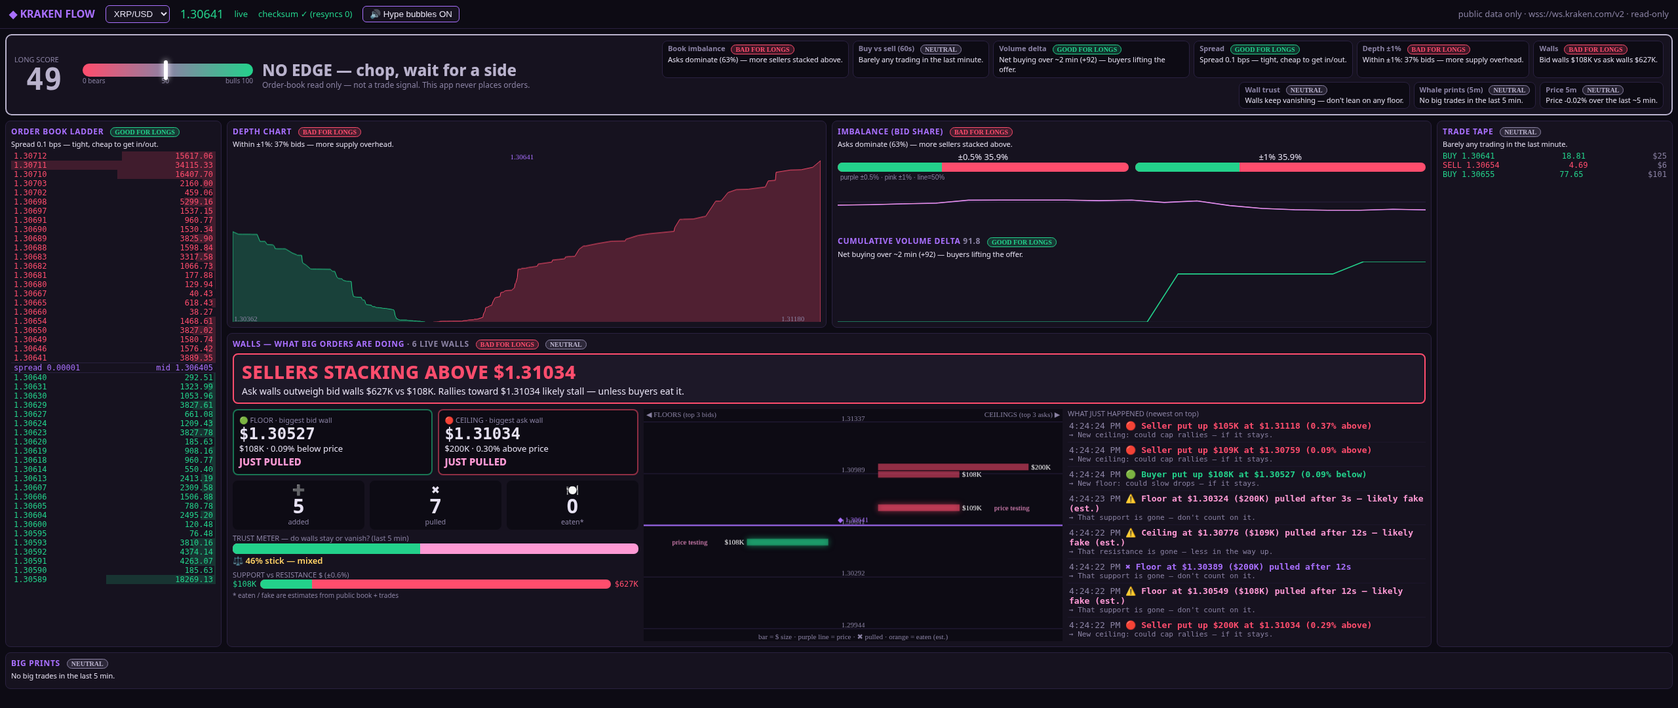
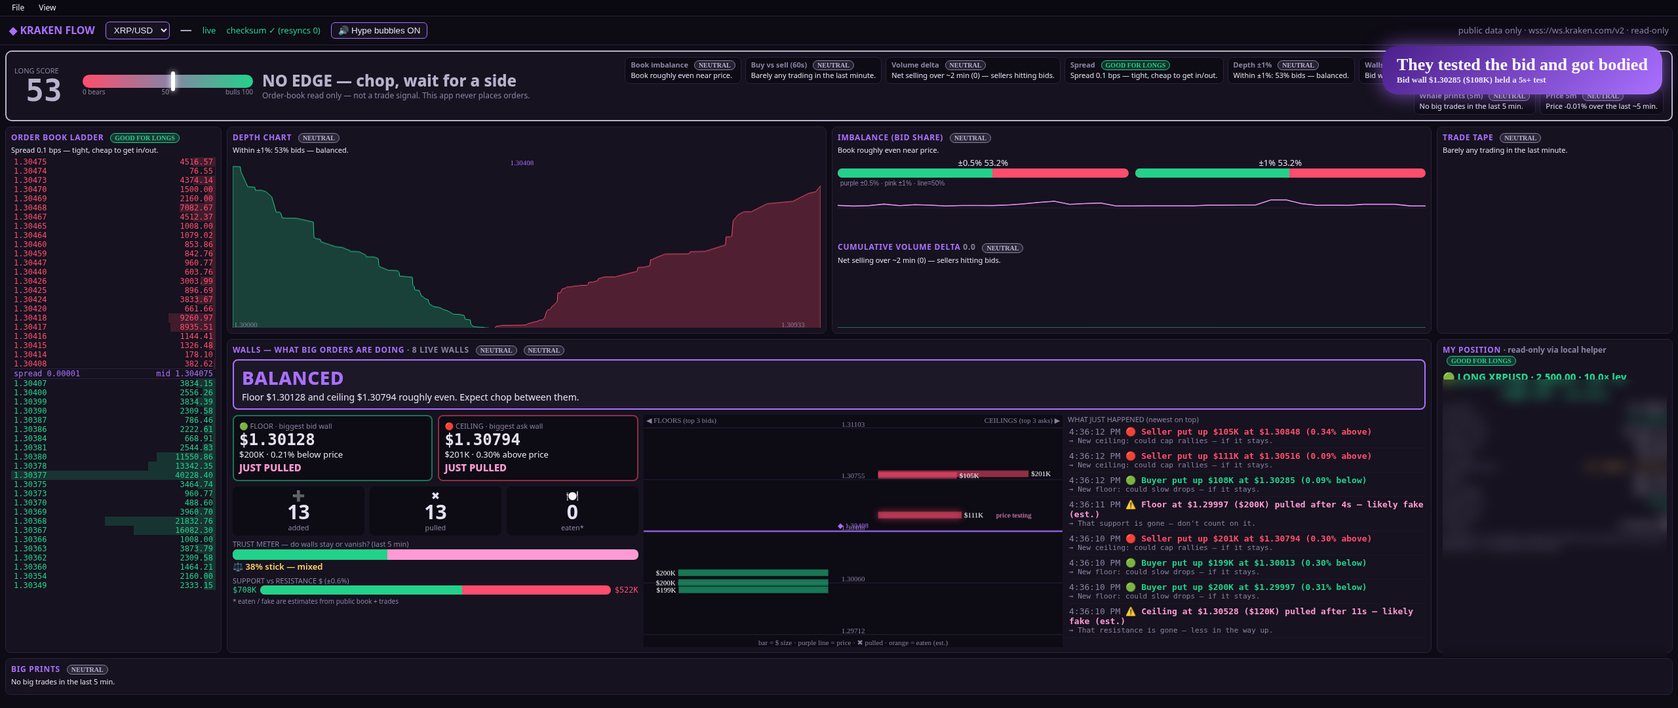
Add read-only My Position panel, local key helper, setup screen + File > Keys, fresh screenshots

diff --git a/KrakenFlow.html b/KrakenFlow.html
@@ -9,12 +9,12 @@ header b{color:var(--ac);font-size:16px}select{background:var(--pn);color:var(--
 .p{background:var(--pn);border:1px solid var(--bd);border-radius:8px;padding:8px;overflow:hidden;display:flex;flex-direction:column;min-height:0}
 .p h3{margin:0 0 6px;font-size:12px;color:var(--ac);text-transform:uppercase;letter-spacing:.06em}
 .p canvas{flex:1;width:100%;min-height:0}
-#lad{grid-area:1/1/3/2}#tape{grid-area:1/4/3/5}#walls{grid-area:2/2/3/4}#lad div.r{display:flex;justify-content:space-between;font:12px Consolas,monospace;padding:0 4px;position:relative}
+#lad{grid-area:1/1/3/2}#tape{grid-area:1/4/2/5}#walls{grid-area:2/2/3/4}#lad div.r{display:flex;justify-content:space-between;font:12px Consolas,monospace;padding:0 4px;position:relative}
 #lad .r i{position:absolute;top:0;bottom:0;right:0;opacity:.18}
 #tape .r,#big .r{font:12px Consolas,monospace;display:flex;justify-content:space-between}
 .list{overflow:auto;flex:1}.gauges{display:flex;gap:10px}.gauges>div{flex:1;text-align:center}
 .bar{height:14px;background:var(--ask);border-radius:7px;overflow:hidden}.bar i{display:block;height:100%;background:var(--bid)}
-@media(max-width:1800px){#g{grid-template-columns:260px 1fr 300px;grid-template-rows:repeat(3,48vh);height:auto}#tape{grid-row:auto}#lad{grid-area:1/1/3/2}#tape{grid-area:1/4/3/5}#walls{grid-area:2/2/3/4}}
+@media(max-width:1800px){#g{grid-template-columns:260px 1fr 300px;grid-template-rows:repeat(3,48vh);height:auto}#tape{grid-row:auto}#lad{grid-area:1/1/3/2}#tape{grid-area:1/4/2/5}#walls{grid-area:2/2/3/4}}
 @media(max-width:1100px){#g{grid-template-columns:1fr;grid-template-rows:none;grid-auto-rows:420px}#lad,#tape{grid-area:auto}}
 .wrow{display:flex;gap:8px;flex:1;min-height:0}#wmap{flex:1 1 0;width:0;min-width:0}.wside{flex:0 0 30%;display:flex;flex-direction:column;min-height:0}
 .sr{display:flex;gap:6px;align-items:center;font:12px Consolas,monospace}#wfeed .r{font:12px Consolas,monospace;padding:2px 0;border-bottom:1px solid #2a214060;animation:fl 1.2s}
@@ -49,17 +49,44 @@ body{font-size:12px}#g{grid-template-columns:210px 1fr 1fr!important;grid-templa
 #ls{flex-wrap:wrap;gap:8px}#lsn{font-size:36px;min-width:60px}#lsm{width:180px}#lsv{font-size:18px}
 #chips{flex-basis:100%;display:grid;grid-template-columns:repeat(3,minmax(0,1fr));gap:4px}.chip{max-width:none;font-size:11px;padding:3px 6px}
 .bb{font-size:20px;max-width:420px}#bigp{width:auto;max-height:20vh}}
+#pos{grid-area:2/4/3/5}#posb .kv{display:flex;justify-content:space-between;font:12px Consolas,monospace;padding:1px 0;border-bottom:1px solid #2a214055}#posb .kv span:first-child{color:var(--mu);font-family:Segoe UI}
+#posb .big{font:800 22px Consolas,monospace;text-align:center;margin:2px 0}#posb .hd{font-weight:800;font-size:15px;margin:2px 0}
+@media(max-width:1400px){#pos{grid-area:3/1/4/2!important}#walls{grid-area:2/2/4/4!important}#tape{max-height:46vh}}
+#menu{display:flex;gap:2px;background:#0a0810;border-bottom:1px solid var(--bd);padding:0 8px;font-size:12px;position:relative;z-index:50}
+.mi{position:relative}.mi>span{display:inline-block;padding:4px 10px;cursor:pointer;border-radius:4px}.mi>span:hover,.mi.open>span{background:#2a2140}
+.dd{display:none;position:absolute;top:100%;left:0;background:var(--pn);border:1px solid var(--bd);border-radius:6px;min-width:180px;padding:4px;box-shadow:0 8px 24px #000a}.mi.open .dd{display:block}
+.dd div{padding:6px 10px;border-radius:4px;cursor:pointer}.dd div:hover{background:#a970ff33}
+.ov{position:fixed;inset:0;background:#05040acc;backdrop-filter:blur(4px);display:none;align-items:center;justify-content:center;z-index:200}.ov.on{display:flex}
+.dlg{background:var(--pn);border:2px solid var(--ac);border-radius:14px;padding:22px 26px;width:min(520px,92vw);box-shadow:0 0 40px #a970ff55}
+.dlg h2{margin:0 0 4px;color:var(--ac)}.dlg label{display:block;font-size:12px;color:var(--mu);margin:10px 0 3px}
+.dlg input{width:100%;background:#0d0b14;color:var(--tx);border:1px solid var(--bd);border-radius:6px;padding:8px;font:13px Consolas,monospace}
+.dlg .btns{display:flex;gap:8px;margin-top:14px;flex-wrap:wrap}.dlg button{background:#0d0b14;color:var(--tx);border:1px solid var(--bd);border-radius:6px;padding:7px 14px;cursor:pointer}
+.dlg button.pr{background:var(--ac);border-color:var(--ac);color:#fff;font-weight:700}.note{background:#ffd16614;border:1px solid #ffd16655;border-radius:8px;padding:8px;font-size:12px;margin-top:10px}
+#kmsg{min-height:18px;margin-top:8px;font-weight:600}
 </style></head><body>
+<div id="menu"><div class="mi" id="mFile"><span>File</span><div class="dd"><div id="miKeys">🔑 Keys…</div><div id="miPos">👁 Show / hide position panel</div></div></div><div class="mi" id="mView"><span>View</span><div class="dd"><div id="miMute">🔊 Toggle hype bubbles</div></div></div></div>
 <header><b>◆ KRAKEN FLOW</b><select id="sym"><option>XRP/USD</option><option>BTC/USD</option><option>ETH/USD</option><option>SOL/USD</option></select>
 <span id="px" style="font-size:18px">—</span><span class="st" id="stat">connecting…</span><span class="st" id="ck"></span>
 <button id="mute">🔊 Hype bubbles ON</button><span class="st" style="margin-left:auto">public data only · wss://ws.kraken.com/v2 · read-only</span></header>
 <div id="ls"><div><div class="st" style="font-size:11px">LONG SCORE</div><div id="lsn">—</div></div><div><div id="lsm"><i id="lsk" style="left:50%"></i></div><div class="st" style="font-size:10px;display:flex;justify-content:space-between"><span>0 bears</span><span>50</span><span>bulls 100</span></div></div>
 <div><div id="lsv">WARMING UP…</div><div id="lss" class="st">Order-book read only — not a trade signal. This app never places orders.</div></div><div id="chips"></div></div>
-<div id="bub"></div><div id="g">
+<div id="bub"></div><div class="ov" id="ovSetup"><div class="dlg"><h2>◆ Welcome to Kraken Flow</h2><div class="st">Want to see your own position? Add a Kraken API key. The charts work without one.</div>
+<label>API key</label><input id="sKey" type="password" autocomplete="off" spellcheck="false" placeholder="paste API key">
+<label>Private key (secret)</label><input id="sSec" type="password" autocomplete="off" spellcheck="false" placeholder="paste private key">
+<div class="note">⚠ Use a <b>query-only</b> key: Query Funds, Query Open Orders &amp; Trades, Query Closed Orders &amp; Trades. <b>No</b> trade or withdraw permissions. Keys go only to the local helper on 127.0.0.1, which saves them to your <code>.env</code> file. They never leave your machine.</div>
+<div id="sMsg" style="min-height:18px;margin-top:8px;font-weight:600"></div>
+<div class="btns"><button class="pr" id="sSave">Save &amp; connect</button><button id="sSkip">Skip — run without position panel</button></div></div></div>
+<div class="ov" id="ovKeys"><div class="dlg"><h2>🔑 Kraken API keys</h2><div id="kStat" class="st">Checking helper…</div>
+<label>API key</label><input id="kKey" type="password" autocomplete="off" spellcheck="false" placeholder="leave blank to keep current">
+<label>Private key (secret)</label><input id="kSec" type="password" autocomplete="off" spellcheck="false" placeholder="leave blank to keep current">
+<div class="note">Query-only permissions only. Saved keys are never shown again (only the last 4 characters of the API key).</div><div id="kmsg"></div>
+<div class="btns"><button class="pr" id="kSave">Save</button><button id="kTest">Test</button><button id="kClear">Clear keys</button><button id="kClose" style="margin-left:auto">Close</button></div></div></div>
+<div id="g">
 <div class="p" id="lad"><h3>Order book ladder <span id="tgSpr"></span></h3><div class="why2" id="wySpr"></div><div id="ladder" class="list"></div></div>
 <div class="p"><h3>Depth chart <span id="tgDepth"></span></h3><div class="why2" id="wyDepth"></div><canvas id="depth"></canvas></div>
 <div class="p"><h3>Imbalance (bid share) <span id="tgImb"></span></h3><div class="why2" id="wyImb"></div><div class="gauges"><div>±0.5% <span id="i05"></span><div class="bar"><i id="b05"></i></div></div><div>±1% <span id="i1"></span><div class="bar"><i id="b1"></i></div></div></div><canvas id="imb"></canvas><h3 style="margin-top:6px">Cumulative volume delta <span id="cvdv" class="st"></span> <span id="tgCvd"></span></h3><div class="why2" id="wyCvd"></div><canvas id="cvd"></canvas></div>
 <div class="p" id="tape"><h3>Trade tape <span id="tgTape"></span></h3><div class="why2" id="wyTape"></div><div id="tp" class="list"></div></div>
+<div class="p" id="pos"><h3>My position <span class="st" style="text-transform:none;letter-spacing:0">· read-only via local helper</span> <span id="tgPos"></span></h3><div id="posb" class="list"><div class="st">Connecting to position helper…</div></div></div>
 <div class="p" id="walls"><h3>Walls — what big orders are doing <span class="st" id="wcount"></span> <span id="tgWall"></span> <span id="tgTrust"></span></h3>
 <div id="verdict"><div id="vh">WARMING UP…</div><div id="vs" class="st">Watching the book for big orders (walls). Needs ~10s.</div></div>
 <div class="wrow">
@@ -252,5 +279,41 @@ let tSizes=[];
 function hypeTrade(t){const v=t.qty*t.price,buy=t.side==='buy';tSizes.push(v);if(tSizes.length>1000)tSizes.shift();if(tSizes.length<100)return;
  const p99=[...tSizes].sort((x,y)=>x-y)[Math.floor(tSizes.length*.99)],big=sym.startsWith('BTC')?100000:25000,th=Math.max(5000,Math.min(big,p99));if(v<th)return;
  const P=prec[sym]||{p:4};if(buy)bubble('buy',pick(HYPE),`Market BUY ${usdK(v)} @ $${fmt(t.price,P.p)}`,6000);else bubble('warn',pick(WARN),`Market SELL ${usdK(v)} @ $${fmt(t.price,P.p)}`,12000)}
+
+// ===== MY POSITION (read-only, from local helper; keys never touch this page) =====
+const NOKEY='<div class="hd st">Add your Kraken API key (read-only) to see your position</div><div class="st" style="font-size:11px">File → Keys… (or copy .env.example to .env), with position_server.py running — Kraken Flow.bat starts it if Python is installed.</div>';async function posTick(){const el=$('posb');let d;try{const r=await fetch('http://127.0.0.1:8787/position',{cache:'no-store'});d=await r.json()}catch(e){el.innerHTML=NOKEY;$('tgPos').innerHTML='';return}
+ if(d.nokeys){el.innerHTML=NOKEY;$('tgPos').innerHTML='';return}if(!d.ok){el.innerHTML=`<div class="hd bad">Position helper error</div><div class="st">${String(d.error).replace(/[<>&]/g,'')}</div>`;return}
+ const $f=(v,n=2)=>v==null?'n/a':(+v).toLocaleString(undefined,{minimumFractionDigits:n,maximumFractionDigits:n}),A=d.account,kv=(k,v,c)=>`<div class="kv"><span>${k}</span><span style="${c?'color:'+c:''}">${v}</span></div>`;
+ const ts=new Date(d.updated*1000).toLocaleTimeString();let h='';
+ if(!d.positions.length){h+='<div class="hd st">No open margin position</div>';$('tgPos').innerHTML=tagH('N')}
+ for(const p of d.positions){const up=p.net>=0,col=up?'var(--bid)':'var(--ask)',P=prec[sym]||{p:5};
+  h+=`<div class="hd" style="color:${p.side==='long'?'var(--bid)':'var(--ask)'}">${p.side==='long'?'🟢 LONG':'🔴 SHORT'} ${p.pair} · ${$f(p.size,2)} ${p.leverage?"· "+p.leverage.toFixed(1)+"× lev":""}</div>`;
+  h+=`<div class="big" style="color:${col}">${up?'+':''}$${$f(p.net)} <span style="font-size:15px">(${up?'+':''}${$f(p.pnl_pct)}%)</span></div>`;
+  h+=kv('Avg entry','$'+$f(p.avg_entry,5))+kv('Current price','$'+$f(p.price,5),col)+kv('Position value','$'+$f(p.value))+kv('Margin used','$'+$f(p.margin))+kv('Fees paid','$'+$f(p.fees))+kv('Liquidation (est.)',p.liq_est?'$'+$f(p.liq_est,5)+' ('+$f((p.liq_est-p.price)/p.price*100,1)+'%)':'n/a','#ffb547');
+  $('tgPos').innerHTML=tagH(p.side==='long'?(up?'G':'B'):'N')}
+ const ml=A.margin_level;h+=kv('Equity','$'+$f(A.equity))+kv('Free margin','$'+$f(A.free_margin))+kv('Margin level',ml==null?'n/a':$f(ml,0)+'%',ml==null?'':ml>150?'var(--bid)':ml>100?'#ffd166':'var(--ask)')+kv('Open orders',d.open_orders)+kv('Updated',ts);
+ h+=`<div class="st" style="font-size:10px;margin-top:3px">Liquidation is an ${d.liq_note||'estimate'}. Read-only — no trading from this app.</div>`;el.innerHTML=h}
+posTick();setInterval(posTick,10000);
+
+// ===== KEYS: first-run setup + File > Keys (keys go ONLY to the local helper on 127.0.0.1) =====
+const HELP='http://127.0.0.1:8787';
+async function hp(path,body){const r=await fetch(HELP+path,body===undefined?{cache:'no-store'}:{method:'POST',headers:{'Content-Type':'application/json'},body:JSON.stringify(body)});return r.json()}
+document.querySelectorAll('.mi>span').forEach(s=>s.onclick=e=>{const m=s.parentElement,o=m.classList.contains('open');document.querySelectorAll('.mi').forEach(x=>x.classList.remove('open'));if(!o)m.classList.add('open');e.stopPropagation()});
+document.addEventListener('click',()=>document.querySelectorAll('.mi').forEach(x=>x.classList.remove('open')));
+const posVis=v=>{$('pos').style.display=v?'':'none';localStorage.kfPosHidden=v?'0':'1'};if(localStorage.kfPosHidden==='1')posVis(false);
+$('miPos').onclick=()=>posVis($('pos').style.display==='none');$('miMute').onclick=()=>$('mute').click();
+async function keyStat(){try{const k=await hp('/keys');$('kStat').innerHTML=k.configured?`Saved key: <b>••••••••${k.key_last4}</b> · secret: <b>••••••••</b>`:'No keys saved.';return k}catch(e){$('kStat').innerHTML='<span class="bad">Position helper not running — start position_server.py (Kraken Flow.bat does it if Python is installed).</span>';return null}}
+const say=(id,ok,t)=>{$(id).textContent=t;$(id).style.color=ok?'var(--bid)':'var(--ask)'};
+$('miKeys').onclick=()=>{$('kKey').value=$('kSec').value='';$('kmsg').textContent='';$('ovKeys').classList.add('on');keyStat()};
+$('kClose').onclick=()=>$('ovKeys').classList.remove('on');
+async function saveKeys(kid,sid,mid){const key=$(kid).value.trim(),secret=$(sid).value.trim();if(!key||!secret){say(mid,false,'Enter both the API key and the private key.');return false}
+ try{const r=await hp('/keys',{key,secret});$(kid).value=$(sid).value='';if(!r.ok){say(mid,false,r.error);return false}const t=await hp('/keys/test',{});say(mid,t.ok,t.ok?`✅ Saved (…${r.key_last4}) — Kraken accepted it`:`Saved (…${r.key_last4}) but test failed: ${t.error}`);posVis(true);posTick();keyStat();return t.ok}
+ catch(e){say(mid,false,'Position helper not running — start position_server.py first.');return false}}
+$('kSave').onclick=()=>saveKeys('kKey','kSec','kmsg');
+$('kTest').onclick=async()=>{try{const t=await hp('/keys/test',{});say('kmsg',t.ok,t.ok?'✅ '+t.message:'❌ '+t.error)}catch(e){say('kmsg',false,'Position helper not running.')}};
+$('kClear').onclick=async()=>{try{await hp('/keys/clear',{});say('kmsg',true,'Keys cleared from .env.');keyStat();posTick()}catch(e){say('kmsg',false,'Position helper not running.')}};
+$('sSave').onclick=async()=>{if(await saveKeys('sKey','sSec','sMsg'))setTimeout(()=>$('ovSetup').classList.remove('on'),900)};
+$('sSkip').onclick=()=>{localStorage.kfSkip='1';$('ovSetup').classList.remove('on');posVis(false)};
+(async()=>{if(localStorage.kfSkip==='1')return;try{const k=await hp('/keys');if(!k.configured)$('ovSetup').classList.add('on')}catch(e){}})();
 start();render();
 </script></body></html>

diff --git a/position_server.py b/position_server.py
@@ -1,0 +1,135 @@
+#!/usr/bin/env python3
+"""Kraken Flow position helper — READ-ONLY, stdlib only.
+Reads KRAKEN_API_KEY / KRAKEN_PRIVATE_KEY from the environment or a .env file next to this script
+(use a query-only key: Query Funds + Query Open Orders & Trades, NO trading permissions).
+Serves sanitized JSON at http://127.0.0.1:8787/position (no account IDs, txids or order IDs).
+Keys can also be saved from the app (File > Keys...): they are POSTed to this helper on 127.0.0.1 only,
+written to the gitignored .env with owner-only permissions, and never sent back (only the last 4 chars of the key).
+It only calls OpenPositions, TradeBalance and OpenOrders. It never places, edits or cancels orders."""
+import os, time, base64, hashlib, hmac, json, urllib.parse, urllib.request, threading
+from http.server import BaseHTTPRequestHandler, ThreadingHTTPServer
+
+HERE = os.path.dirname(os.path.abspath(__file__))
+ENV = os.path.join(HERE, '.env')
+KEY = SEC = ''
+def read_env():
+    d = {}
+    if os.path.exists(ENV):
+        for line in open(ENV, encoding='utf-8'):
+            line = line.strip()
+            if line and not line.startswith('#') and '=' in line:
+                k, v = line.split('=', 1); d[k.strip()] = v.strip().strip('"\'')
+    return d
+def load_keys():
+    global KEY, SEC
+    d = read_env()
+    KEY = d.get('KRAKEN_API_KEY') or os.environ.get('KRAKEN_API_KEY', '')
+    SEC = d.get('KRAKEN_PRIVATE_KEY') or os.environ.get('KRAKEN_PRIVATE_KEY', '')
+    if 'your_read_only' in KEY: KEY = SEC = ''
+def save_keys(key, sec):
+    """Write .env (owner-only permissions where the OS supports it)."""
+    body = f'KRAKEN_API_KEY={key}\nKRAKEN_PRIVATE_KEY={sec}\n' if key else ''
+    fd = os.open(ENV, os.O_WRONLY | os.O_CREAT | os.O_TRUNC, 0o600)
+    with os.fdopen(fd, 'w', encoding='utf-8') as f: f.write(body)
+    try: os.chmod(ENV, 0o600)
+    except OSError: pass
+    if os.name == 'nt':   # restrict to current user on Windows
+        try:
+            import subprocess; u = os.environ.get('USERNAME', '')
+            if u: subprocess.run(['icacls', ENV, '/inheritance:r', '/grant:r', f'{u}:F'], capture_output=True)
+        except Exception: pass
+    if not key: os.environ.pop('KRAKEN_API_KEY', None); os.environ.pop('KRAKEN_PRIVATE_KEY', None)
+    load_keys(); CACHE.update(t=0, v=None)
+def masked(): return {'configured': bool(KEY and SEC), 'key_last4': KEY[-4:] if KEY else None}
+load_keys()
+ALLOWED = {'OpenPositions', 'TradeBalance', 'OpenOrders'}   # read-only allowlist
+LIQ_ML = 40.0   # Kraken liquidates near 40% margin level (used only for the labelled estimate)
+LOCK = threading.Lock(); CACHE = {'t': 0, 'v': None}
+def priv(method, data=None):
+    if method not in ALLOWED: raise ValueError('blocked: not a read-only endpoint')
+    data = dict(data or {}); data['nonce'] = str(int(time.time() * 1000))
+    path = '/0/private/' + method; body = urllib.parse.urlencode(data)
+    sha = hashlib.sha256((data['nonce'] + body).encode()).digest()
+    sig = base64.b64encode(hmac.new(base64.b64decode(SEC), path.encode() + sha, hashlib.sha512).digest())
+    req = urllib.request.Request('https://api.kraken.com' + path, body.encode(), {'API-Key': KEY, 'API-Sign': sig})
+    r = json.load(urllib.request.urlopen(req, timeout=10))
+    if r.get('error'): raise RuntimeError(', '.join(r['error']))
+    return r['result']
+
+def snapshot():
+    with LOCK:
+        if CACHE['v'] and time.time() - CACHE['t'] < 5: return CACHE['v']
+        if not KEY or not SEC:
+            return {'ok': False, 'nokeys': True, 'updated': int(time.time())}
+        try:
+            pos = priv('OpenPositions', {'docalcs': 'true'}); tb = priv('TradeBalance'); oo = priv('OpenOrders')
+            groups = {}
+            for p in pos.values():
+                vol = float(p['vol']) - float(p['vol_closed']); k = (p['pair'], p['type'])
+                g = groups.setdefault(k, {'pair': p['pair'].split(':')[0], 'side': 'long' if p['type'] == 'buy' else 'short',
+                                          'size': 0.0, 'cost': 0.0, 'value': 0.0, 'net': 0.0, 'margin': 0.0, 'fees': 0.0, 'lots': 0})
+                g['size'] += vol; g['cost'] += float(p['cost']); g['value'] += float(p.get('value') or 0)
+                g['net'] += float(p.get('net') or 0); g['margin'] += float(p['margin']); g['fees'] += float(p['fee']); g['lots'] += 1
+            e, m = float(tb.get('e', 0)), float(tb.get('m', 0)); out = []
+            for g in groups.values():
+                s = g['size'] or 1
+                g['avg_entry'] = g['cost'] / s; g['price'] = g['value'] / s if g['value'] else None
+                g['pnl_pct'] = g['net'] / g['cost'] * 100 if g['cost'] else 0
+                g['leverage'] = g['cost'] / g['margin'] if g['margin'] else None
+                g['liq_est'] = None
+                if len(groups) == 1 and g['price'] and m:   # estimate only when one pair/side is open
+                    room = e - LIQ_ML / 100 * m
+                    g['liq_est'] = g['price'] - room / s if g['side'] == 'long' else g['price'] + room / s
+                out.append({k: (round(v, 6) if isinstance(v, float) else v) for k, v in g.items()})
+            v = {'ok': True, 'updated': int(time.time()), 'positions': out,
+                 'account': {'equity': float(tb.get('e', 0)), 'free_margin': float(tb.get('mf', 0)),
+                             'margin_used': m, 'margin_level': float(tb['ml']) if tb.get('ml') else None,
+                             'unrealized': float(tb.get('n', 0)), 'trade_balance': float(tb.get('tb', 0))},
+                 'open_orders': len(oo.get('open', {})), 'liq_note': f'estimate: margin level {LIQ_ML:.0f}%, other balances unchanged'}
+        except Exception as ex:
+            v = {'ok': False, 'updated': int(time.time()), 'error': type(ex).__name__ + ': ' + str(ex)[:120]}
+        CACHE.update(t=time.time(), v=v); return v
+
+class H(BaseHTTPRequestHandler):
+    def _origin_ok(self):
+        # Only the local Kraken Flow page (file:// => Origin "null") or local tools (no Origin) may talk to us.
+        o = self.headers.get('Origin')
+        return o in (None, 'null') or o.startswith('http://127.0.0.1') or o.startswith('http://localhost')
+    def _send(self, code, obj):
+        b = json.dumps(obj).encode(); self.send_response(code)
+        self.send_header('Content-Type', 'application/json'); self.send_header('Access-Control-Allow-Origin', self.headers.get('Origin') or '*')
+        self.send_header('Access-Control-Allow-Methods', 'GET, POST, OPTIONS'); self.send_header('Access-Control-Allow-Headers', 'Content-Type')
+        self.send_header('Access-Control-Allow-Private-Network', 'true'); self.send_header('Vary', 'Origin')
+        self.send_header('Cache-Control', 'no-store'); self.send_header('Content-Length', str(len(b))); self.end_headers(); self.wfile.write(b)
+    def do_OPTIONS(self):
+        if not self._origin_ok(): return self._send(403, {'ok': False, 'error': 'origin not allowed'})
+        self._send(204 if False else 200, {})
+    def do_GET(self):
+        if not self._origin_ok(): return self._send(403, {'ok': False, 'error': 'origin not allowed'})
+        p = self.path.split('?')[0]
+        if p == '/position': self._send(200, snapshot())
+        elif p == '/keys': self._send(200, masked())
+        else: self._send(404, {'ok': False, 'error': 'not found'})
+    def do_POST(self):
+        if not self._origin_ok(): return self._send(403, {'ok': False, 'error': 'origin not allowed'})
+        p = self.path.split('?')[0]
+        try: body = json.loads(self.rfile.read(min(int(self.headers.get('Content-Length') or 0), 4096)) or b'{}')
+        except Exception: body = {}
+        if p == '/keys':
+            k, s_ = str(body.get('key', '')).strip(), str(body.get('secret', '')).strip()
+            try: ok = bool(k) and len(base64.b64decode(s_, validate=True)) > 0
+            except Exception: ok = False
+            if not ok: return self._send(400, {'ok': False, 'error': 'key and a valid base64 secret are required'})
+            save_keys(k, s_); return self._send(200, {'ok': True, **masked()})
+        if p == '/keys/clear': save_keys('', ''); return self._send(200, {'ok': True, **masked()})
+        if p == '/keys/test':
+            if not (KEY and SEC): return self._send(200, {'ok': False, 'error': 'no keys saved'})
+            try: priv('TradeBalance'); return self._send(200, {'ok': True, 'message': 'Kraken accepted the key (read access works)'})
+            except Exception as ex: return self._send(200, {'ok': False, 'error': type(ex).__name__ + ': ' + str(ex)[:120]})
+        self._send(404, {'ok': False, 'error': 'not found'})
+    def log_message(self, *a): pass
+
+if __name__ == '__main__':
+    if not KEY or not SEC: print('No keys yet - add a READ-ONLY key in Kraken Flow (File > Keys...) or copy .env.example to .env.')
+    print('Kraken Flow position helper (read-only) on http://127.0.0.1:8787/position')
+    ThreadingHTTPServer(('127.0.0.1', 8787), H).serve_forever()

diff --git a/README.md b/README.md
@@ -11,21 +11,43 @@ It streams Kraken's **public** WebSocket v2 order book and trades and turns them
 - **Walls panel:** a headline verdict, Floor and Ceiling cards (price, $ size, distance, holding / being tested / pulled / eaten), a 5-minute tally of walls added, pulled and eaten, a trust meter, a top-3 wall ladder, and a plain-English event feed.
 - **Hype bubbles** for big market buys, buy-delta surges and bid walls that hold a test, plus warning bubbles for big sells. They are rate-limited and can be muted.
 - Order book ladder with CRC32 checksum verification and auto-resync, depth chart, imbalance and CVD charts, trade tape, and big prints.
+- **My Position panel (optional):** pair, side, size, average entry, current price, unrealized P&L ($ and %), margin used, fees, an *estimated* liquidation price, equity, free margin, margin level, open-order count and last-updated time. It is read-only, has no trading buttons, and uses **your own** read-only key through a tiny local helper.
+- **First-run setup screen and File → Keys…** to add, change, test or clear keys. Saved keys are only ever shown masked (last 4 characters).
 - Works on ultrawide screens and still fits when snapped to a third of a 4K screen (about 1280px wide).
 - Pairs: XRP/USD, BTC/USD, ETH/USD, SOL/USD.
 
 | Walls | Hype bubble | 1/3 of 4K |
 |---|---|---|
-| ![](screenshots/walls-panel.png) | ![](screenshots/hype-bubble-ultrawide.png) | ![](screenshots/third-of-4k-1280.png) |
+| ![](screenshots/walls-panel.png) | ![](screenshots/hype-bubble.png) | ![](screenshots/third-of-4k-1280.png) |
+
+| Long Score | My Position (values blurred) | First-run setup | File → Keys… |
+|---|---|---|---|
+| ![](screenshots/long-score.png) | ![](screenshots/position-panel.png) | ![](screenshots/setup-screen.png) | ![](screenshots/file-keys-dialog.png) |
 
 ## Run
 - **Any OS:** open `KrakenFlow.html` in a Chromium-based browser (Chrome or Edge).
 - **Windows app window:** double-click `Kraken Flow.bat`. It opens Edge in app mode next to the HTML file. `KrakenFlow.ico` can be used as the icon for a shortcut.
 
-No build, no dependencies, no API keys.
+No build and no dependencies. The charts need no API keys.
+
+## Optional: see your own position
+1. On Kraken, go to **Settings → API** and create a key with **query-only** permissions: *Query Funds*, *Query Open Orders & Trades* and *Query Closed Orders & Trades*. Do **not** give it trade, withdraw or deposit permissions.
+2. Either copy `.env.example` to `.env` and paste your key and secret, **or** skip this step and enter them in the app's setup screen or **File → Keys…**.
+3. Run `python position_server.py` (Python 3.8+, standard library only). `Kraken Flow.bat` starts it automatically if Python is on your PATH.
+
+How the helper handles your keys:
+- It listens on **127.0.0.1:8787** only.
+- It only accepts requests from the local page.
+- It only calls `OpenPositions`, `TradeBalance` and `OpenOrders`.
+- It strips out account IDs, txids and order IDs.
+- It never sends the secret back.
+- It writes `.env` with owner-only permissions. `.env` is gitignored.
+
+If the helper isn't running or no key is set, the panel says *"Add your Kraken API key (read-only) to see your position"*. Choosing **Skip** on the setup screen hides the panel.
 
 ## Disclaimer
-- **Reads public market data only** (`wss://ws.kraken.com/v2`). There is no private API, no keys and no account access, and it **places no orders**.
+- **The charts read public market data only** (`wss://ws.kraken.com/v2`). The optional position helper makes **read-only** private calls with *your* query-only key, stored on your machine. **Nothing in this project places, edits or cancels orders.**
+- The liquidation price is an **estimate**: it assumes Kraken's roughly 40% margin-level liquidation and that your other balances stay the same.
 - **"Eaten" and "fake/spoof" labels are estimates** based on public book changes and trades. The Long Score and tags are heuristics.
 - **This is not financial advice.** It is a read of the order book, not a trade signal. Use it at your own risk.
 
